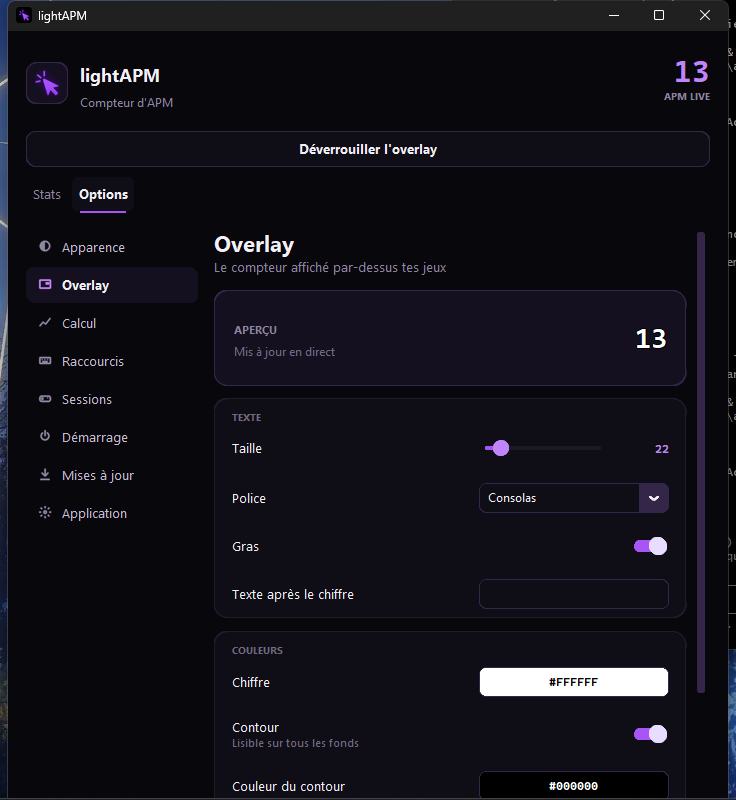
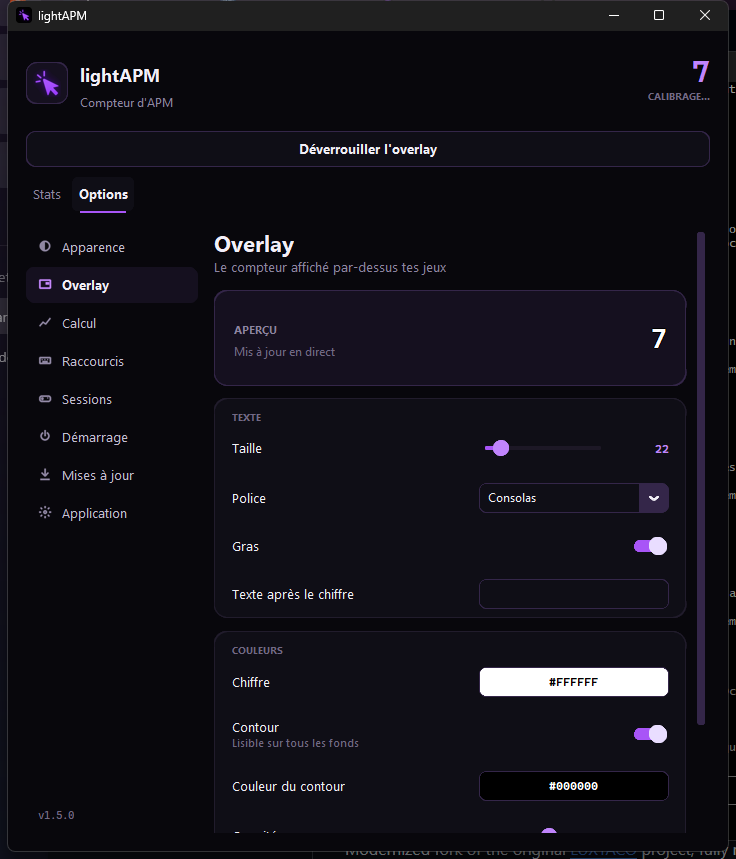
README refait pour GitHub + captures à jour
Présentation, bouton de téléchargement, captures de la nouvelle interface,
bandeau des 7 thèmes, explication du calcul des stats et FAQ.

diff --git a/app/lightapm.py b/app/lightapm.py
@@ -2160,7 +2160,7 @@ theme_aide = g.ligne("Couleur d'accent", theme_box, "")
 theme_go = ctk.CTkButton(g.c, text="Redémarrer pour appliquer", width=CW,
                          **dict(BTN, fg_color=ACC, hover_color=ACC_H, text_color=ON_ACC, border_width=0,
                                 font=police(12, True)), command=lambda: redemarrer())
-theme_go_aide = g.ligne("Appliquer le thème", theme_go, "L'app redémarre en gardant tes stats")
+theme_go_aide = g.ligne("Appliquer le thème", theme_go, "Tes stats sont gardées")
 
 
 def choisir_theme_opt(k):

diff --git a/README.md b/README.md
@@ -1,92 +1,160 @@
+<div align="center">
+
+<img src="app/assets/lightapm_tile.png" alt="Logo lightAPM" width="96">
+
 # lightAPM
 
-Compteur d'APM (actions par minute) léger pour Windows : un chiffre discret par-dessus tes jeux, et des stats
-par jeu qui s'accumulent session après session.
+**Ton APM en direct par-dessus tes jeux, et tes stats par jeu, session après session.**
 
-<p>
-  <img src="docs/stats.png" alt="Onglet Stats : détail d'un jeu avec moyenne, peak, low et courbe d'évolution" width="380">
-  <img src="docs/options.png" alt="Onglet Options : réglages rangés par catégorie avec aperçu de l'overlay" width="380">
-</p>
+![Windows 10/11](https://img.shields.io/badge/Windows-10%20%7C%2011-a855f7?style=flat-square)
+![Version](https://img.shields.io/badge/version-1.5.0-a855f7?style=flat-square)
+![Python](https://img.shields.io/badge/Python-3.9%2B-2a2140?style=flat-square)
+![Gratuit](https://img.shields.io/badge/prix-gratuit-2a2140?style=flat-square)
 
-## Fonctionnalités
+### [Télécharger lightAPM](https://github.com/Kaiokrr/lightAPM/archive/refs/heads/main.zip)
 
-- **Overlay** : le chiffre seul, fond transparent, verrouillable (les clics le traversent en jeu).
-- **Stats par jeu** : le jeu au premier plan est détecté automatiquement. Pour chaque session : moyenne,
-  peak (meilleure minute) et low (pire minute active), avec historique et courbe d'évolution.
-- **Pause AFK** : sans input, les APM se figent et reprennent dès que tu rejoues.
-- **7 thèmes** de couleur, un assistant de configuration au premier lancement.
-- **Lancement avec Windows** (optionnel), réduction dans la zone de notification.
-- **Mises à jour** : proposées au démarrage, jamais installées sans ton accord.
+<sub>Décompresse le ZIP, double-clique sur <code>lightAPM.exe</code>. C'est tout.</sub>
 
-Les navigateurs ne sont pas comptés.
+</div>
+
+<br>
+
+<table>
+  <tr>
+    <td align="center" width="33%"><img src="docs/stats.png" alt="Onglet Stats : moyenne et peak record de chaque jeu"><br><sub><b>Tes jeux</b> · moyenne et peak de chacun</sub></td>
+    <td align="center" width="33%"><img src="docs/detail.png" alt="Détail d'un jeu : moyenne, peak, low, tendance, courbe et sessions"><br><sub><b>Détail d'un jeu</b> · courbe et historique</sub></td>
+    <td align="center" width="33%"><img src="docs/options.png" alt="Options rangées par catégorie avec aperçu de l'overlay"><br><sub><b>Options</b> · aperçu de l'overlay en direct</sub></td>
+  </tr>
+</table>
+
+## Ce que fait lightAPM
+
+| | |
+| --- | --- |
+| **Overlay discret** | Un simple chiffre, fond transparent, où tu veux sur l'écran. Verrouillé, les clics le traversent : il ne gêne jamais en jeu. |
+| **Stats par jeu** | Le jeu ouvert est détecté tout seul. Chaque session enregistre ta moyenne, ton peak et ton low, et tes stats se cumulent au fil des parties. |
+| **Courbe d'évolution** | Pour chaque jeu : ta moyenne session après session, la plage entre ton low et ton peak, et ta tendance récente. |
+| **Pause AFK** | Tu lâches le clavier ? Les APM se figent. Tu reprends ? Ils repartent exactement où ils en étaient. |
+| **Résumé de fin de partie** | Une petite carte en bas de l'écran avec la moyenne, le peak et le low de la session. |
+| **Installation en un clic** | `lightAPM.exe` installe tout ce qu'il faut au premier lancement, puis te guide pour les réglages. |
+| **Démarrage avec Windows** | En option, dans la zone de notification, sans droits administrateur. |
+| **Mises à jour** | Proposées au démarrage, jamais installées sans ton accord. |
 
 ## Installation
 
-1. Télécharge le projet : bouton **Code › Download ZIP**, puis décompresse-le où tu veux.
-   Ou avec Git : `git clone https://github.com/Kaiokrr/lightAPM.git`
+1. **[Télécharge le ZIP](https://github.com/Kaiokrr/lightAPM/archive/refs/heads/main.zip)** et décompresse-le où tu veux (par exemple dans `Documents`).
 2. Double-clique sur **`lightAPM.exe`**.
+3. Suis l'assistant : thème, ce qui compte comme une action, démarrage. Une minute, montre en main.
 
-Au premier lancement, `lightAPM.exe` :
-- vérifie que Python 3.9+ est installé, et propose de l'installer s'il manque (via winget, sans droits admin) ;
-- installe les composants nécessaires (une seule fois, environ une minute) ;
-- ouvre l'assistant de configuration.
+Au premier lancement, `lightAPM.exe` vérifie que Python est installé (et propose de l'installer s'il manque),
+puis installe les composants nécessaires. Ça prend environ une minute et n'arrive qu'une fois.
 
-Ensuite, il lance l'app directement.
+> [!NOTE]
+> Windows peut afficher **« Windows a protégé votre ordinateur »** : l'exe n'est pas signé (un certificat
+> coûte cher pour un projet gratuit). Clique sur **Informations complémentaires**, puis **Exécuter quand même**.
+> Le code du lanceur est lisible dans [`launcher/launcher.py`](launcher/launcher.py).
 
-> **Windows SmartScreen** peut afficher « Windows a protégé votre ordinateur », parce que l'exe n'est pas
-> signé. Clique sur **Informations complémentaires › Exécuter quand même**. Le code source du lanceur est dans
-> [`launcher/launcher.py`](launcher/launcher.py).
+Avec Git : `git clone https://github.com/Kaiokrr/lightAPM.git`
+
+## Comment sont calculées les stats
+
+- **APM en direct** : tes actions des 60 dernières secondes (réglable), ramenées à une minute. Pendant la première
+  minute, l'en-tête affiche « Calibrage » et le chiffre monte progressivement, sans faux pic au lancement.
+- **Une action** = une touche pressée, un clic ou un cran de molette (chacun peut être désactivé). Maintenir
+  une touche ne compte qu'une fois.
+- **Moyenne** d'une session : toutes tes actions divisées par ton temps de jeu réel (pauses AFK exclues).
+- **Peak** : ta meilleure minute de jeu complète.
+- **Low** : ta pire minute de jeu active (les minutes AFK ne comptent pas).
+- **Session** : elle commence quand le jeu passe au premier plan sur ton écran principal, et se termine quand
+  tu le fermes ou le quittes plus de 5 minutes (réglable). Les sessions de moins d'une minute sont ignorées.
+
+Les navigateurs (Chrome, Edge, Firefox, Opera, Brave…) ne sont jamais comptés.
+
+## 7 thèmes
+
+<img src="docs/themes.png" alt="Les 7 thèmes : Violet, Glace, Braise, Néon, Ambre, Sakura, Mono">
+
+Au choix dans l'assistant ou dans **Options › Apparence**.
 
 ## Raccourcis
 
 | Touche | Action |
-| --- | --- |
-| `F8` | Verrouiller / déverrouiller l'overlay (déverrouillé : glisse-le où tu veux) |
-| `F9` | Afficher / masquer l'overlay |
+| :---: | --- |
+| <kbd>F8</kbd> | Verrouiller / déverrouiller l'overlay. Déverrouillé, glisse-le où tu veux : sa position est gardée. |
+| <kbd>F9</kbd> | Afficher / masquer l'overlay |
 
 Modifiables dans **Options › Raccourcis**.
 
-## Où sont mes données ?
+## Questions fréquentes
 
-Dans le dossier `data/` à côté de l'exe : `config.json` (réglages) et `stats.json` (tes sessions).
-Ce dossier n'est jamais envoyé sur GitHub. Pour repartir de zéro, supprime-le.
+<details>
+<summary><b>Est-ce que lightAPM enregistre ce que je tape ?</b></summary>
+<br>
+Non. Il compte les actions, il ne garde pas les touches. Tout reste sur ton PC, dans le dossier <code>data/</code>.
+La seule connexion à Internet sert à vérifier s'il existe une nouvelle version (désactivable dans <b>Options › Mises à jour</b>).
+</details>
 
-## Structure du projet
+<details>
+<summary><b>Est-ce que ça peut poser problème avec un anti-cheat ?</b></summary>
+<br>
+lightAPM ne touche pas au jeu : il ne lit ni ne modifie sa mémoire et n'injecte rien. Il écoute le clavier et la
+souris au niveau de Windows et regarde quelle fenêtre est au premier plan, comme un logiciel d'overlay classique.
+</details>
+
+<details>
+<summary><b>Où sont mes stats ? Comment repartir de zéro ?</b></summary>
+<br>
+Dans <code>data/stats.json</code> (et tes réglages dans <code>data/config.json</code>), à côté de l'exe.
+Pour effacer un seul jeu : ouvre-le dans l'onglet Stats, puis <b>Supprimer</b>. Pour tout effacer : supprime le dossier <code>data/</code>.
+</details>
+
+<details>
+<summary><b>Un jeu est rangé dans « Apps » au lieu de « Jeux »</b></summary>
+<br>
+Ouvre-le dans l'onglet Stats et change sa catégorie avec le menu en haut à droite. Tu peux aussi le renommer.
+</details>
+
+<details>
+<summary><b>Comment désinstaller ?</b></summary>
+<br>
+Si tu as activé <b>Lancer avec Windows</b>, désactive-le d'abord dans <b>Options › Démarrage</b>. Ensuite, supprime simplement le dossier.
+</details>
+
+<details>
+<summary><b>Pour les développeurs</b></summary>
+<br>
 
 ```
 lightAPM.exe          lanceur : installe ce qu'il faut et démarre l'app
-app/lightapm.py       l'application
+app/lightapm.py       l'application (customtkinter, pynput, pystray, Pillow)
 app/assets/           logo et icônes
-launcher/             code source du lanceur + script de compilation
+launcher/             code source du lanceur + build.bat pour le compiler
 requirements.txt      dépendances Python
-version.json          dernière version publiée (lu par l'app pour proposer les mises à jour)
-data/                 tes réglages et stats (créé au premier lancement, ignoré par Git)
+version.json          dernière version publiée, lue par l'app pour proposer les mises à jour
+data/                 réglages et stats de l'utilisateur (créé au lancement, ignoré par Git)
 ```
 
-## Développement
-
-Lancer depuis le code :
+**Lancer depuis le code**
 
 ```
 pip install -r requirements.txt
 pythonw app/lightapm.py
 ```
 
-Recompiler le lanceur :
+**Recompiler le lanceur** : `pip install pyinstaller`, puis `launcher\build.bat`.
 
-```
-pip install pyinstaller
-launcher\build.bat
-```
-
-### Publier une mise à jour
+**Publier une mise à jour**
 
 1. Dans `app/lightapm.py`, augmente `VERSION` et ajoute les nouveautés dans `NOUVEAUTES`.
-2. Mets à jour `version.json` (même numéro de version, notes).
-3. Pousse sur GitHub.
+2. Reporte le même numéro et les notes dans `version.json`.
+3. Pousse sur `main`.
 
-Les utilisateurs se voient proposer la mise à jour au démarrage. L'app télécharge le nouveau
-`app/lightapm.py`, vérifie qu'il est valide, garde une copie `.bak`, puis redémarre.
+Au démarrage suivant, les utilisateurs se voient proposer la mise à jour. L'app télécharge le nouveau
+`app/lightapm.py`, vérifie qu'il est valide, garde une copie `.bak`, puis redémarre et affiche « Quoi de neuf ».
+</details>
 
-Pour que ça marche, `UPDATE_URL` dans `app/lightapm.py` et `url` dans `version.json` doivent pointer vers
-ton dépôt (`https://raw.githubusercontent.com/<pseudo>/<dépôt>/main/...`).
+<br>
+
+<div align="center">
+<sub>Fait par <a href="https://github.com/Kaiokrr">Kaiokrr</a></sub>
+</div>
